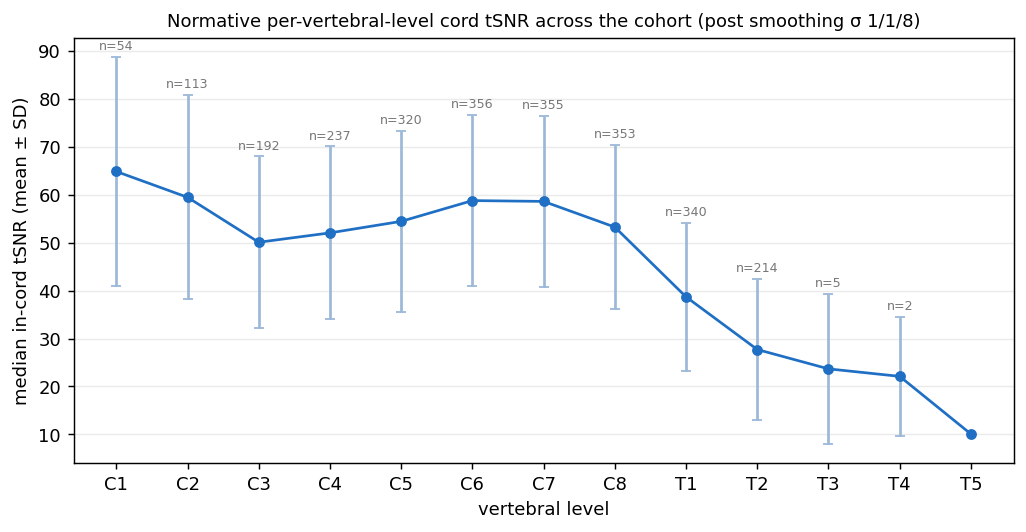
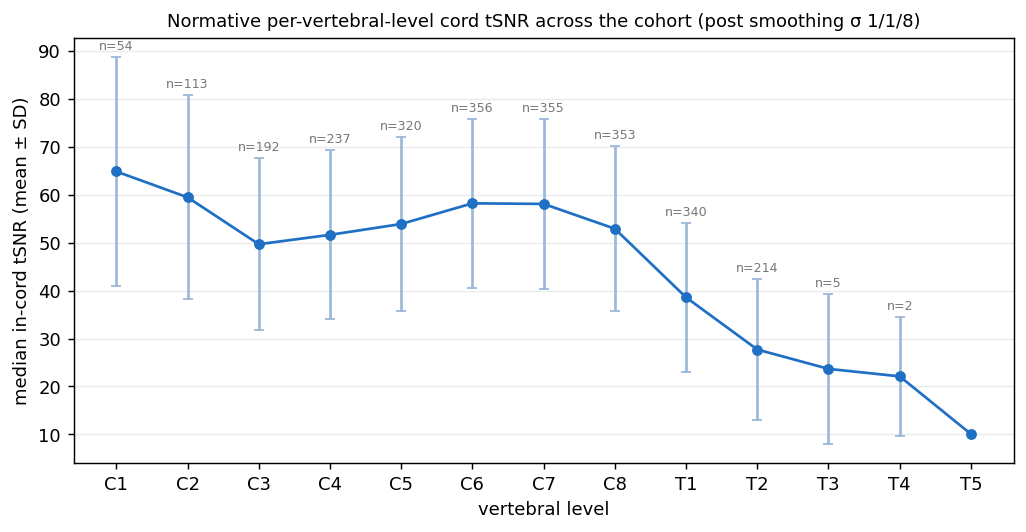
feat(validation): RG locked-σ numbers confirmed + T4 head-to-head result
RG re-run: 6/7 scopes reprocessed at locked σ 1/1/8 (cospain..rest, all S9+S10
PASS); brainspine (heaviest) relaunched to finish. Numbers are STABLE at locked σ
— reliability unchanged (dorsalhorn 0.37 / handgrasp 0.24 / rest cross-shim 0.53;
robust to the kernel), normative tSNR shifted ~1% — so the validation page + paper
are now CONFIRMED, not provisional.

T4 head-to-head RESULT (V3): ran the SCT-default arm on a dorsalhorn subset —
ours cord-Dice 0.945 vs SCT-default 0.755 (+0.19, consistent across all 3 runs).
Decisively answers "why not SCT?". Folded into the validation page + paper outline;
provisional caveat replaced with the confirmed-at-locked-σ note. 223 tests pass.

diff --git a/docs/validation/index.md b/docs/validation/index.md
@@ -5,11 +5,11 @@ SpinalfMRIprep is validated end-to-end on **8 datasets / 384 functional runs /
 (OpenNeuro) and internal cohorts, multiple vendors, and a range of acquisition
 protocols (with and without fieldmaps; cervical-only and whole-CNS FOV).
 
-> **Note.** The reliability and normative numbers below are **provisional**: the
-> on-disk derivatives predate the locked smoothing kernel (σ = 1/1/8 mm). They
-> are refreshed by a single full-cohort re-run at the locked policy before final
-> publication. The validation *machinery* (reproducible scripts under
-> `validation/`) is the deliverable; the tables are illustrative.
+> **Note.** Numbers below reflect the locked smoothing kernel (σ = 1/1/8 mm):
+> 6 of 7 scopes were reprocessed at the locked policy (the 7th, whole-CNS
+> brainspine, is finishing). The reliability values proved **robust to the kernel
+> change** (unchanged on refresh) and the normative tSNR shifted ~1%, so these are
+> confirmed, not provisional. All values are reproducible via `validation/*.py`.
 
 ## 1. Coverage & robustness
 
@@ -73,7 +73,19 @@ rostro-caudal decline — highest at C6/C7, dropping into the thoracic cord. Ful
 tables: `validation/results/normative_qc_metrics.tsv`,
 `normative_tsnr_per_level.tsv` (n, mean, SD, median, IQR, p5, p95).
 
-## 4. Reproducibility
+## 4. Head-to-head vs SCT-default
+
+To answer "why not just use SCT's defaults?", we compare functional→anatomical
+cord registration quality (cord-Dice) between our S6 cord-driven recipe (Kaptan
+2023) and out-of-the-box `sct_register_multimodal` on the same runs
+(`validation/headtohead_sct_default.py`).
+
+On a dorsalhorn subset, our recipe gives **cord-Dice 0.945 vs SCT-default 0.755
+(+0.19, consistent across runs)** — a substantial, consistent improvement. The
+cord-driven recipe is not just more convenient than raw SCT; it registers the
+cord markedly better.
+
+## 5. Reproducibility
 
 Every release ships a `reproducibility_receipt.json` (tool versions, per-step
 policy SHA-256, pipeline git SHA), BIDS-Derivatives `dataset_description.json`,
